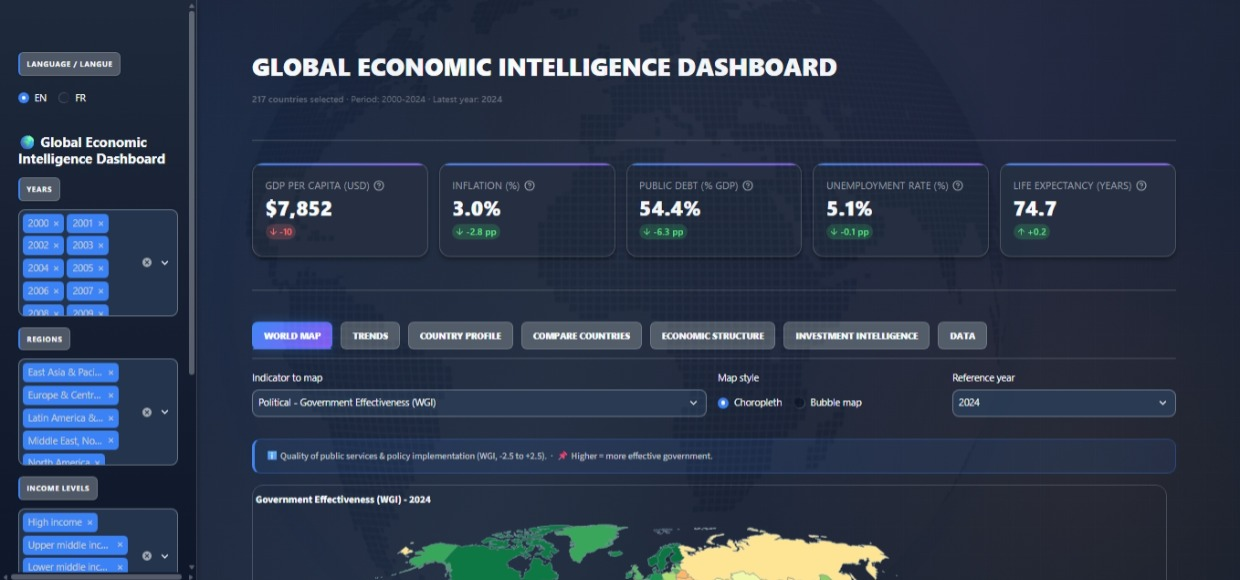
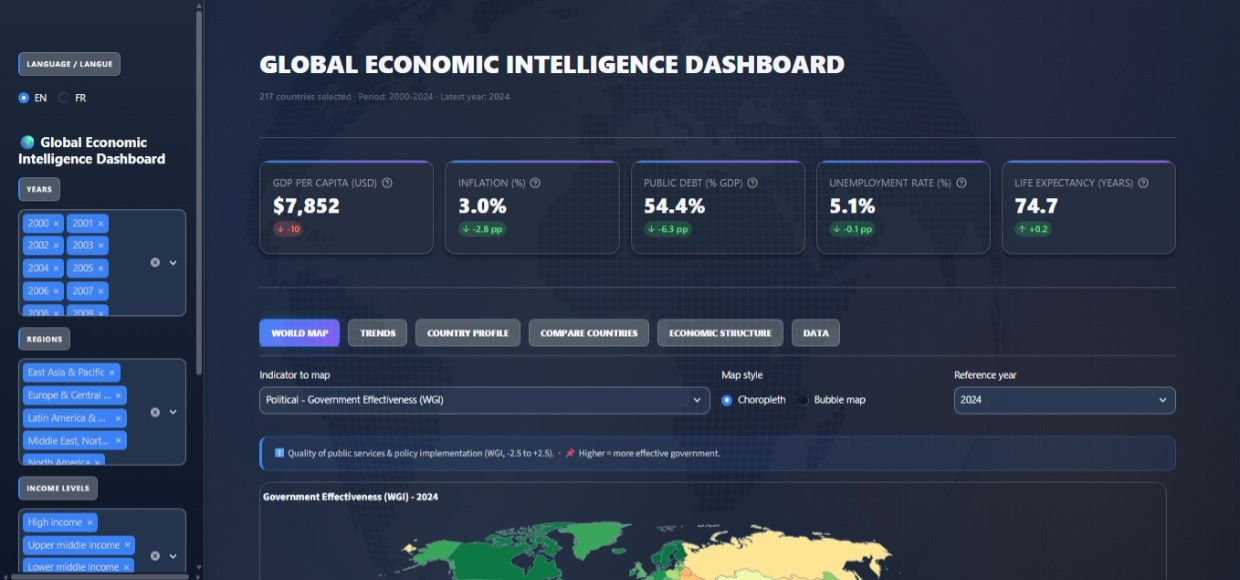
Documentation update

diff --git a/README-fr.md b/README-fr.md
@@ -1,6 +1,6 @@
 # 🌍 Tableau de Bord d'Intelligence Économique Mondiale
 
-Plateforme interactive bilingue (FR/EN) - 217 pays · 2000-2024 · 58 indicateurs Banque Mondiale structurés selon le cadre **PESTEL**, complétés d'un module dédié **Intelligence Investissement**.
+Plateforme interactive bilingue (FR/EN) - 217 pays · 2000-2024 · 58 indicateurs Banque Mondiale structurés selon le cadre **PESTEL**.
 
 <p align="left">
 <img src="https://img.shields.io/badge/Python-3776AB?style=flat&logo=python&logoColor=white" alt="Python" />
@@ -18,18 +18,6 @@ Plateforme interactive bilingue (FR/EN) - 217 pays · 2000-2024 · 58 indicateur
 <img src="https://img.shields.io/badge/GitHub_Actions-2088FF?style=flat&logo=githubactions&logoColor=white" alt="GitHub Actions" />
 <img src="https://img.shields.io/badge/API_Banque_Mondiale-0072BC?style=flat" alt="API Banque Mondiale" />
 <img src="https://img.shields.io/badge/Licence_MIT-green?style=flat" alt="Licence MIT" />
-</p>
-
-<p align="left">
-<a href="https://world-bi-dashboard.streamlit.app/">
-<img src="https://img.shields.io/badge/D%C3%A9mo_en_ligne-Streamlit-FF4B4B?style=for-the-badge&logo=streamlit&logoColor=white" alt="Démo en ligne" />
-</a>
-</p>
-
-<p align="left">
-  <a href="https://world-economic-dashboard.onrender.com/">
-    <img src="https://img.shields.io/badge/Démo_en_ligne-Render-FF4B4B?style=for-the-badge&logo=render&logoColor=white" alt="Démo en ligne">
-  </a>
 </p>
 
 ![Aperçu](docs/screenshots/aperçu.jpeg)
@@ -55,7 +43,7 @@ Plateforme interactive bilingue (FR/EN) - 217 pays · 2000-2024 · 58 indicateur
 
 ## Fonctionnalités
 
-**7 vues coordonnées** + modules d'analyse spécialisés :
+**6 vues d'analyse spécialisés :**
 
 - **Carte mondiale** - Choroplèthe + bulles, rognage par percentile, cartes de médiane régionale.
 - **Tendances & corrélations** - Séries temporelles par région/revenu, lignes de chocs annotées (2008, 2020, 2022), scatter OLS.
@@ -63,7 +51,6 @@ Plateforme interactive bilingue (FR/EN) - 217 pays · 2000-2024 · 58 indicateur
 - **Comparaison & Similarité pays** - Benchmarking multi-pays (jusqu'à 12 pays) et moteur de recherche de pays similaires.
 - **Structure & Résilience économique** - Treemap sectoriel, violin plot log du PIB/hab., analyse de la résilience et des chocs.
 - **Explorateur de données & Audit Qualité** - Jeu de données filtrable avec audit des données manquantes, mise en forme conditionnelle null-safe, export Excel (.xlsx) en un clic.
-- **Score Investissement** - Score composite 0-100 (8 indicateurs pondérés), matrice risque/rendement 4 quadrants, détecteur de signaux d'alerte, shortlist d'opportunités propres.
 
 ## Le jumeau Power BI
 
@@ -78,7 +65,6 @@ Un miroir Power BI complet du dashboard est maintenu en parallèle (en français
 | TopoJSON monde (choroplèthe) | `data/powerbi/world.topo.json` |
 
 **Pages** : Carte mondiale (choroplèthe quintiles) · Tendances · Profil pays (drillthrough) · Comparatifs · Structure économique.
-*La similarité pays (PCA) reste volontairement dans l'app Streamlit.*
 
 ## Couverture PESTEL (58 indicateurs)
 
@@ -104,18 +90,14 @@ world-economic-dashboard/
 │ ├── style.css               # Thème CSS bleu/navy sur-mesure
 │ └── globe.png               # Filigrane globe (fond de l'app)
 ├── core/                     # Package Python modulaire principal
-│ ├── analytics.py            # Helpers statistiques mis en cache
 │ ├── constants.py            # Schémas PESTEL, palettes, indicateurs inversés
 │ ├── data.py                 # Chargement des données (CSV + Parquet)
 │ ├── indicators.py           # Métadonnées & interprétation des indicateurs
-│ ├── investment.py           # Algorithmes de scoring d'investissement et quadrants
 │ └── labels.py               # Résolution des libellés multilingues
 ├── data/
 │ ├── fetch_data.py           # Pipeline de collecte API Banque Mondiale + OWID
 │ ├── world_economic.csv      # Dataset agrégé (217 pays × 2000-2024)
 │ └── world_economic.parquet  # Cache Parquet (chargement rapide)
-├── tests/
-│ └── test_investment.py      # Suite de tests automatisés pytest
 ├── docs/
 │ └── screenshots/            # Captures d'aperçu du dashboard (FR + EN)
 ├── app.py                    # Point d'entrée Streamlit (7 onglets)
@@ -137,8 +119,21 @@ world-economic-dashboard/
 
 ### Option 1 : Live Demo
 
-- Cliquez **[ici](https://world-bi-dashboard.streamlit.app/)** pour utiliser le tableau de bord, hébergé sur **Streamlit Cloud**.
-- Pour des besoins de redondance, l'application est également hébergée sur **Render**, et accessible **[ici](https://world-economic-dashboard.onrender.com/)**.
+- Cliquez sur le bouton ci-dessous pour utiliser le tableau de bord, hébergé sur **Streamlit Cloud**.
+
+<p align="left">
+<a href="https://world-bi-dashboard.streamlit.app/">
+<img src="https://img.shields.io/badge/D%C3%A9mo_en_ligne-Streamlit-FF4B4B?style=for-the-badge&logo=streamlit&logoColor=white" alt="Démo en ligne" />
+</a>
+</p>
+
+- Pour des besoins de redondance, l'application est également hébergée sur **Render**.
+
+<p align="left">
+  <a href="https://world-economic-dashboard.onrender.com/">
+    <img src="https://img.shields.io/badge/Démo_en_ligne-Render-FF4B4B?style=for-the-badge&logo=render&logoColor=white" alt="Démo en ligne">
+  </a>
+</p>
 
 ### Option 2 : Installation Locale
 
@@ -179,35 +174,15 @@ world-economic-dashboard/
 
 ## Documentation
 
-### Guide utilisateur - Interpréter les scores et les vues
+### Guide utilisateur
 
 #### Réglages globaux
 
-La barre latérale permet de choisir la langue de l'interface (anglais ou français), ainsi que les années, les régions et les niveaux de revenu à analyser. Ces filtres s'appliquent à l'ensemble des vues, et les médianes comme les classements sont recalculés à la volée sur la sélection retenue. En revanche, les scores normalisés (radar PESTEL et score d'investissement) restent toujours calculés par rapport au **monde entier** pour l'année choisie : un score conserve ainsi la même signification, quels que soient les filtres actifs.
-
-#### Couleurs et valeurs manquantes
-
-Chaque indicateur dispose de sa propre échelle de couleur. Pour les indicateurs dits **inversés** (inflation, dette publique, chômage, PM2.5, etc.), la valeur est retournée lors du calcul des scores : une valeur élevée compte alors comme un mauvais résultat. Les cartes sont rognées aux percentiles 2–98 afin que quelques valeurs extrêmes n'écrasent pas l'échelle de couleurs. Enfin, les cellules sans donnée apparaissent sous la forme « - » dans les tableaux et « N/A » sur les cartes KPI, sur un fond gris neutre.
+La barre latérale permet de choisir la langue de l'interface (anglais ou français), ainsi que les années, les régions et les niveaux de revenu à analyser. Ces filtres s'appliquent à l'ensemble des vues, et les médianes comme les classements sont recalculés à la volée sur la sélection retenue.
 
 #### Radar PESTEL (Profil pays)
 
 Chaque pilier reçoit une note de 0 à 100, égale à la médiane des indicateurs du pilier, normalisée en min-max par rapport au monde et corrigée des indicateurs inversés. Une note de **50** correspond donc à la position médiane mondiale ; au-delà de **70**, le pays figure dans le tiers supérieur ; en dessous de **30**, il se trouve en situation fragile. Plus que les valeurs absolues, comparez la **forme** des radars : les trois aires affichées représentent le pays, la médiane de sa région et la médiane mondiale.
-
-#### Score d'investissement (0-100)
-
-Le score d'investissement agrège **huit indicateurs macroéconomiques pondérés** (PIB par habitant, croissance, inflation, dette publique, chômage, compte courant, investissements directs étrangers, ouverture commerciale), chacun normalisé par rapport au monde et retourné s'il est inversé. Au-delà de 70, le pays est jugé très attractif ; entre 50 et 70, il est intermédiaire ; sous 50, il est fragile. Cette lecture est relative au millésime mondial de l'année sélectionnée.
-
-#### Matrice risque/rendement
-
-L'axe horizontal représente le TCAM du PIB par habitant sur les cinq dernières années sélectionnées, l'axe vertical le risque (moyenne augmentée de l'écart-type de l'inflation), et la taille des bulles le PIB total. Les quadrants sont séparés par les médianes de l'échantillon et suivent la lecture classique : ⭐ Star, ❓ Question Mark, 💰 Cash Cow, ⚠ Dog.
-
-#### Red flags et opportunités
-
-Un drapeau 🔴 signifie qu'un seuil critique est franchi (les règles sont définies dans `core/investment.py`) ; un drapeau 🟡 signale une zone de vigilance. La colonne `flag_details` détaille, pays par pays, les raisons de chaque drapeau. La shortlist des « meilleures opportunités » ne conserve que les pays **sans aucun red flag**, classés par score d'investissement.
-
-#### Résilience et chocs
-
-Le module résilience mesure la profondeur de la chute (drawdown) puis la vitesse de récupération après les chocs de 2008, 2020 et 2022. Un pays est jugé résilient lorsque la chute est limitée et que le niveau d'avant-choc est rapidement retrouvé.
 
 #### Pays similaires
 
@@ -222,38 +197,11 @@ Dans l'explorateur, les dégradés par colonne indiquent si une valeur élevée 
 - Une corrélation n'implique pas de causalité (les droites OLS sont descriptives).
 - **Tendance centrale** : médianes par défaut (robustes aux valeurs extrêmes : micro-États, hyperinflations). La moyenne n'est jamais utilisée pour les agrégats affichés ; la dispersion est mesurée par écart-type.
 - 2024 est la dernière année validée (décalage de publication de 12 à 18 mois).
-- Enfin, **les scores sont relatifs** : 60/100 signifie « 60 % de l'écart min-max monde », et non une note absolue.
-
-### Documentation technique et API
-
-#### Architecture de l'application
-
-L'application est organisée en modules spécialisés :
-
-- `app.py` est le point d'entrée Streamlit : il assemble les 7 onglets et gère les filtres globaux.
-- `core/data.py` expose `load_data()`, qui charge le dataset (cache CSV + Parquet) et renvoie un `pd.DataFrame`.
-- `core/constants.py` centralise les schémas PESTEL, les palettes de couleurs, la liste des indicateurs inversés (`INVERSE_INDICATORS`) et la fonction `get_expressive_colorscale()`.
-- `core/indicators.py` fournit les métadonnées et l'interprétation des indicateurs (`indicator_info()`, `interpret_value()`, `show_indicator_info()`).
-- - `core/analytics.py` regroupe des helpers statistiques mis en cache.
-- `similar.py`, `resilience.py` et `dataquality.py` sont des modules autonomes exposant chacun une fonction `render(df_all, lang)`.
-- `exports.py` génère le classeur Excel (`export_excel(df, year, lang) -> bytes`).
-- `translations.py` assure la bilingualité via `t(key, lang, **fmt)`.
-
-#### Pipeline de données
-
-Le script `data/fetch_data.py` collecte les données de l'API Banque Mondiale et d'Our World in Data, puis les agrège dans `data/world_economic.csv` (217 pays × 2000–2024). Ce jeu de données est rafraîchi automatiquement chaque premier lundi du mois par le workflow `.github/workflows/update-data.yml`, qui enchaîne tests, collecte, génération du changelog, commit et redéploiement sur Streamlit Cloud.
-
-#### API interne (fonctions indépendantes de l'interface)
-
-```Py
-    load_data() -> pd.DataFrame                     # country, iso3, region, income_group, year + 58 indicateurs
-    get_pestel_scores(df_target, df_world, year) -> dict  # {pilier: score 0-100}
-    t(key, lang, **kwargs) -> str                   # traduction formatée
-```
+- Enfin, **les scores PESTEL sont relatifs** : 60/100 signifie « 60 % de l'écart min-max monde », et non une note absolue.
 
 ## Problèmes connus & dépannage
 
-### Le message *« Failed to fetch dynamically imported module »* lors du lancement de l'application
+### Le message *« Failed to fetch dynamically imported module »* lors du lancement de l'application via Streamlit Cloud
 
 Ce message peut apparaître immédiatement **après un redéploiement** (push ou reboot sur Streamlit Cloud). **Il ne s'agit pas d'un bug de l'application** : lors de chaque mise à jour, les fichiers JavaScript du frontend changent d'empreinte (hash). Un onglet resté ouvert - ou un cache navigateur périmé - référence encore les anciennes adresses et reçoit des erreurs, que chaque widget affiche dans son propre encadré rouge. Le serveur Python, lui, fonctionne normalement.
 

diff --git a/README.md b/README.md
@@ -1,6 +1,6 @@
 # 🌍 Global Economic Intelligence Dashboard
 
-Interactive bilingual platform (EN/FR) - 217 countries · 2000-2024 · 58 World Bank indicators structured around the **PESTEL** framework, plus a dedicated **Investment Intelligence** module.
+Interactive bilingual platform (EN/FR) - 217 countries · 2000-2024 · 58 World Bank indicators structured around the **PESTEL** framework.
 
 <p align="left">
 <img src="https://img.shields.io/badge/Python-3776AB?style=flat&logo=python&logoColor=white" alt="Python" />
@@ -18,18 +18,6 @@ Interactive bilingual platform (EN/FR) - 217 countries · 2000-2024 · 58 World 
 <img src="https://img.shields.io/badge/GitHub_Actions-2088FF?style=flat&logo=githubactions&logoColor=white" alt="GitHub Actions" />
 <img src="https://img.shields.io/badge/API_Banque_Mondiale-0072BC?style=flat" alt="API Banque Mondiale" />
 <img src="https://img.shields.io/badge/Licence_MIT-green?style=flat" alt="Licence MIT" />
-</p>
-
-<p align="left">
-<a href="https://world-bi-dashboard.streamlit.app/">
-<img src="https://img.shields.io/badge/Live_Demo-Streamlit-FF4B4B?style=for-the-badge&logo=streamlit&logoColor=white" alt="Live Demo" />
-</a>
-</p>
-
-<p align="left">
-  <a href="https://world-economic-dashboard.onrender.com/">
-    <img src="https://img.shields.io/badge/Live Demo-Render-FF4B4B?style=for-the-badge&logo=render&logoColor=white" alt="Live Demo">
-  </a>
 </p>
 
 ![Overview](docs/screenshots/overview.jpeg)
@@ -55,7 +43,7 @@ Interactive bilingual platform (EN/FR) - 217 countries · 2000-2024 · 58 World 
 
 ## Features
 
-**7 coordinated views** + specialized analytical modules:
+**6 specialized analytical modules:**
 
 - **World Map** - Choropleth + bubble maps, percentile clipping, regional median cards.
 - **Trends & Correlations** - Time series by region/income, annotated shock lines (2008, 2020, 2022), OLS scatter plots.
@@ -63,7 +51,6 @@ Interactive bilingual platform (EN/FR) - 217 countries · 2000-2024 · 58 World 
 - **Country Comparison & Similarity** - Multi-country benchmarking (up to 12 countries) and peer similarity matching engine.
 - **Economic Structure & Resilience** - Sectoral treemap, log-scale violin plot of GDP/capita, resilience & shock analysis.
 - **Data Explorer & Quality Audit** - Filterable dataset with missingness audit, null-safe conditional formatting, one-click Excel (.xlsx) export.
-- **Investment Score** - Composite 0-100 attractiveness score (8 weighted indicators), risk/return 4-quadrant matrix, red-flag detector, clean-opportunity shortlist.
 
 ## Power BI Twin
 
@@ -78,7 +65,6 @@ A complete Power BI mirror of this dashboard is maintained in parallel (french o
 | World TopoJSON (choropleth) | `data/powerbi/world.topo.json` |
 
 **Pages**: World Map (quintile choropleth) · Trends · Country Profile (drillthrough) · Compare Countries · Economic Structure.
-*PCA-based country similarity is intentionally Streamlit-only.*
 
 ## PESTEL Coverage (58 indicators)
 
@@ -104,18 +90,14 @@ world-economic-dashboard/
 │ ├── style.css                 # Custom blue/navy theme CSS
 │ └── globe.png                 # Globe watermark (app background)
 ├── core/                       # Core modular Python package
-│ ├── analytics.py              # Cached statistical helpers
 │ ├── constants.py              # PESTEL schemas, palettes, inverse indicators
 │ ├── data.py                   # Cached data loading (CSV + Parquet)
 │ ├── indicators.py             # Indicator metadata & interpretation
-│ ├── investment.py             # Investment scoring & quadrant algorithms
 │ └── labels.py                 # Multilingual label resolvers
 ├── data/
 │ ├── fetch_data.py             # World Bank + OWID data ingestion pipeline
 │ ├── world_economic.csv        # Aggregated dataset (217 countries × 2000-2024)
 │ └── world_economic.parquet    # Parquet cache for fast local loading
-├── tests/
-│ └── test_investment.py        # Pytest automated test suite
 ├── docs/
 │ └── screenshots/              # Dashboard overview captures (EN + FR)
 ├── app.py                      # Streamlit entry point (7 tabs)
@@ -137,8 +119,21 @@ world-economic-dashboard/
 
 ### Option 1: Live Demo
 
-- Click **[here](https://world-bi-dashboard.streamlit.app/)** to use the dashboard, hosted on **Streamlit Cloud**.
-- For redundancy needs, the app is also hosted on **Render**. Click **[here](https://world-economic-dashboard.onrender.com/)**.
+- Click on the button below to use the dashboard, hosted on **Streamlit Cloud**.
+
+<p align="left">
+<a href="https://world-bi-dashboard.streamlit.app/">
+<img src="https://img.shields.io/badge/Live_Demo-Streamlit-FF4B4B?style=for-the-badge&logo=streamlit&logoColor=white" alt="Live Demo" />
+</a>
+</p>
+
+- For redundancy needs, the app is also hosted on **Render**.
+
+<p align="left">
+  <a href="https://world-economic-dashboard.onrender.com/">
+    <img src="https://img.shields.io/badge/Live Demo-Render-FF4B4B?style=for-the-badge&logo=render&logoColor=white" alt="Live Demo">
+  </a>
+</p>
 
 ### Option 2: Local Setup
 
@@ -183,31 +178,11 @@ world-economic-dashboard/
 
 #### Global settings
 
-The sidebar lets you choose the interface language (English or French), together with the years, regions and income levels to analyse. These filters apply to every view, and medians as well as rankings are recomputed on the fly over the selected subset. Normalized scores (PESTEL radar and investment score), however, are always computed against the **whole world** for the chosen year, so that a score keeps the same meaning regardless of the active filters.
-
-#### Colors and missing values
-
-Each indicator has its own color scale. For **inverse indicators** (inflation, public debt, unemployment, PM2.5, etc.), the value is flipped when scores are computed: a high value then counts as a poor result. Maps are clipped at the 2nd–98th percentiles so that a few extreme values cannot crush the color scale. Missing cells appear as "-" in tables and "N/A" on KPI cards, on a neutral gray background.
+The sidebar lets you choose the interface language (English or French), together with the years, regions and income levels to analyse. These filters apply to every view, and medians as well as rankings are recomputed on the fly over the selected subset. 
 
 #### PESTEL radar (Country profile)
 
 Each pillar receives a 0-100 score equal to the median of the pillar's indicators, min-max normalized against the world and corrected for inverse indicators. A score of **50** therefore corresponds to the world median position; above **70** the country sits in the top tier; below **30** it is in a fragile situation. Compare the **shapes** of the radars rather than absolute values: the three displayed areas represent the country, its regional median and the world median.
-
-#### Investment score (0-100)
-
-The investment score aggregates **eight weighted macroeconomic indicators** (GDP per capita, growth, inflation, public debt, unemployment, current account, foreign direct investment, trade openness), each normalized against the world and flipped when inverse. Above 70 the country is considered very attractive; between 50 and 70 it is intermediate; below 50 it is fragile. This reading is relative to the world vintage of the selected year.
-
-#### Risk/return matrix
-
-The horizontal axis shows GDP-per-capita CAGR over the last five selected years, the vertical axis the risk (inflation mean plus standard deviation), and the bubble size the total GDP. Quadrants are split at the sample medians and follow the classic reading: ⭐ Star, ❓ Question Mark, 💰 Cash Cow, ⚠ Dog.
-
-#### Red flags and opportunities
-
-A 🔴 flag means a critical threshold has been breached (the rules live in `core/investment.py`); a 🟡 flag signals a watch zone. The `flag_details` column lists, country by country, the reasons behind each flag. The "top opportunities" shortlist keeps only countries with **no red flag at all**, ranked by investment score.
-
-#### Resilience and shocks
-
-The resilience module measures the depth of the drop (drawdown) and the speed of recovery after the 2008, 2020 and 2022 shocks. A country is deemed resilient when the drop is limited and the pre-shock level is quickly regained.
 
 #### Similar countries
 
@@ -222,39 +197,11 @@ In the explorer, per-column gradients show whether a high value is favorable (bl
 - Correlation does not imply causation (OLS trendlines are descriptive).
 - **Central tendency**: medians by default (robust to outliers such as micro-states and hyperinflations). Means are never used for displayed aggregates; dispersion is measured with standard deviations.
 - 2024 is the latest validated year (12–18 month publication lag).
-- Finally, **scores are relative**: 60/100 means "60% of the world min-max gap", not an absolute grade.
-
-### Technical & API documentation
-
-#### Application architecture
-
-The application is organized into specialized modules:
-
-- `app.py` is the Streamlit entry point: it assembles the 7 tabs and manages the global filters.
-
-- `core/data.py` exposes `load_data()`, which loads the dataset (CSV + Parquet cache) and returns a `pd.DataFrame`.
-- `core/constants.py` centralizes the PESTEL schemas, color palettes, the list of inverse indicators (`INVERSE_INDICATORS`) and the `get_expressive_colorscale()` function.
-- `core/indicators.py` provides indicator metadata and interpretation (`indicator_info()`, `interpret_value()`, `show_indicator_info()`).
-- - `core/analytics.py` groups cached statistical helpers.
-- `similar.py`, `resilience.py` and `dataquality.py` are standalone modules, each exposing a `render(df_all, lang)` function.
-- `exports.py` generates the Excel workbook (`export_excel(df, year, lang) -> bytes`).
-- `translations.py` handles bilingualism through `t(key, lang, **fmt)`.
-
-#### Data pipeline
-
-The `data/fetch_data.py` script collects data from the World Bank API and Our World in Data, then aggregates them into `data/world_economic.csv` (217 countries × 2000–2024). This dataset is automatically refreshed on the first Monday of every month by the `.github/workflows/update-data.yml` workflow, which chains tests, data fetch, changelog generation, commit and Streamlit Cloud redeployment.
-
-#### Internal API (UI-independent functions)
-
-```Py
-    load_data() -> pd.DataFrame                     # country, iso3, region, income_group, year + 58 indicators
-    get_pestel_scores(df_target, df_world, year) -> dict  # {pillar: 0-100 score}
-    t(key, lang, **kwargs) -> str                   # formatted translation
-```
+- Finally, **PESTEL scores are relative**: 60/100 means "60% of the world min-max gap", not an absolute grade.
 
 ## Known issues & troubleshooting
 
-### The *"Failed to fetch dynamically imported module"* when launching the app
+### The *"Failed to fetch dynamically imported module"* when launching the app on Streamlit Cloud
 
 This message may appear immediately **after a redeployment** (push or reboot on Streamlit Cloud). **It is not an application bug**: on every update, the frontend JavaScript files change their fingerprint (hash). A tab left open - or a stale browser cache - still references the old addresses and receives errors, which each widget displays in its own red box. The Python server, meanwhile, runs normally.
 

diff --git a/SECURITY.md b/SECURITY.md
@@ -9,8 +9,6 @@
 
 ## Reporting a Vulnerability
 
-We take the security of the Global Economic Intelligence Dashboard seriously.
-
 **Please do NOT open a public GitHub issue for security vulnerabilities.**
 
 If you discover a security issue (e.g., secret leakage, dependency vulnerability, XSS in Streamlit components), please report it privately via the **GitHub Security Advisories** tab on this repository.
